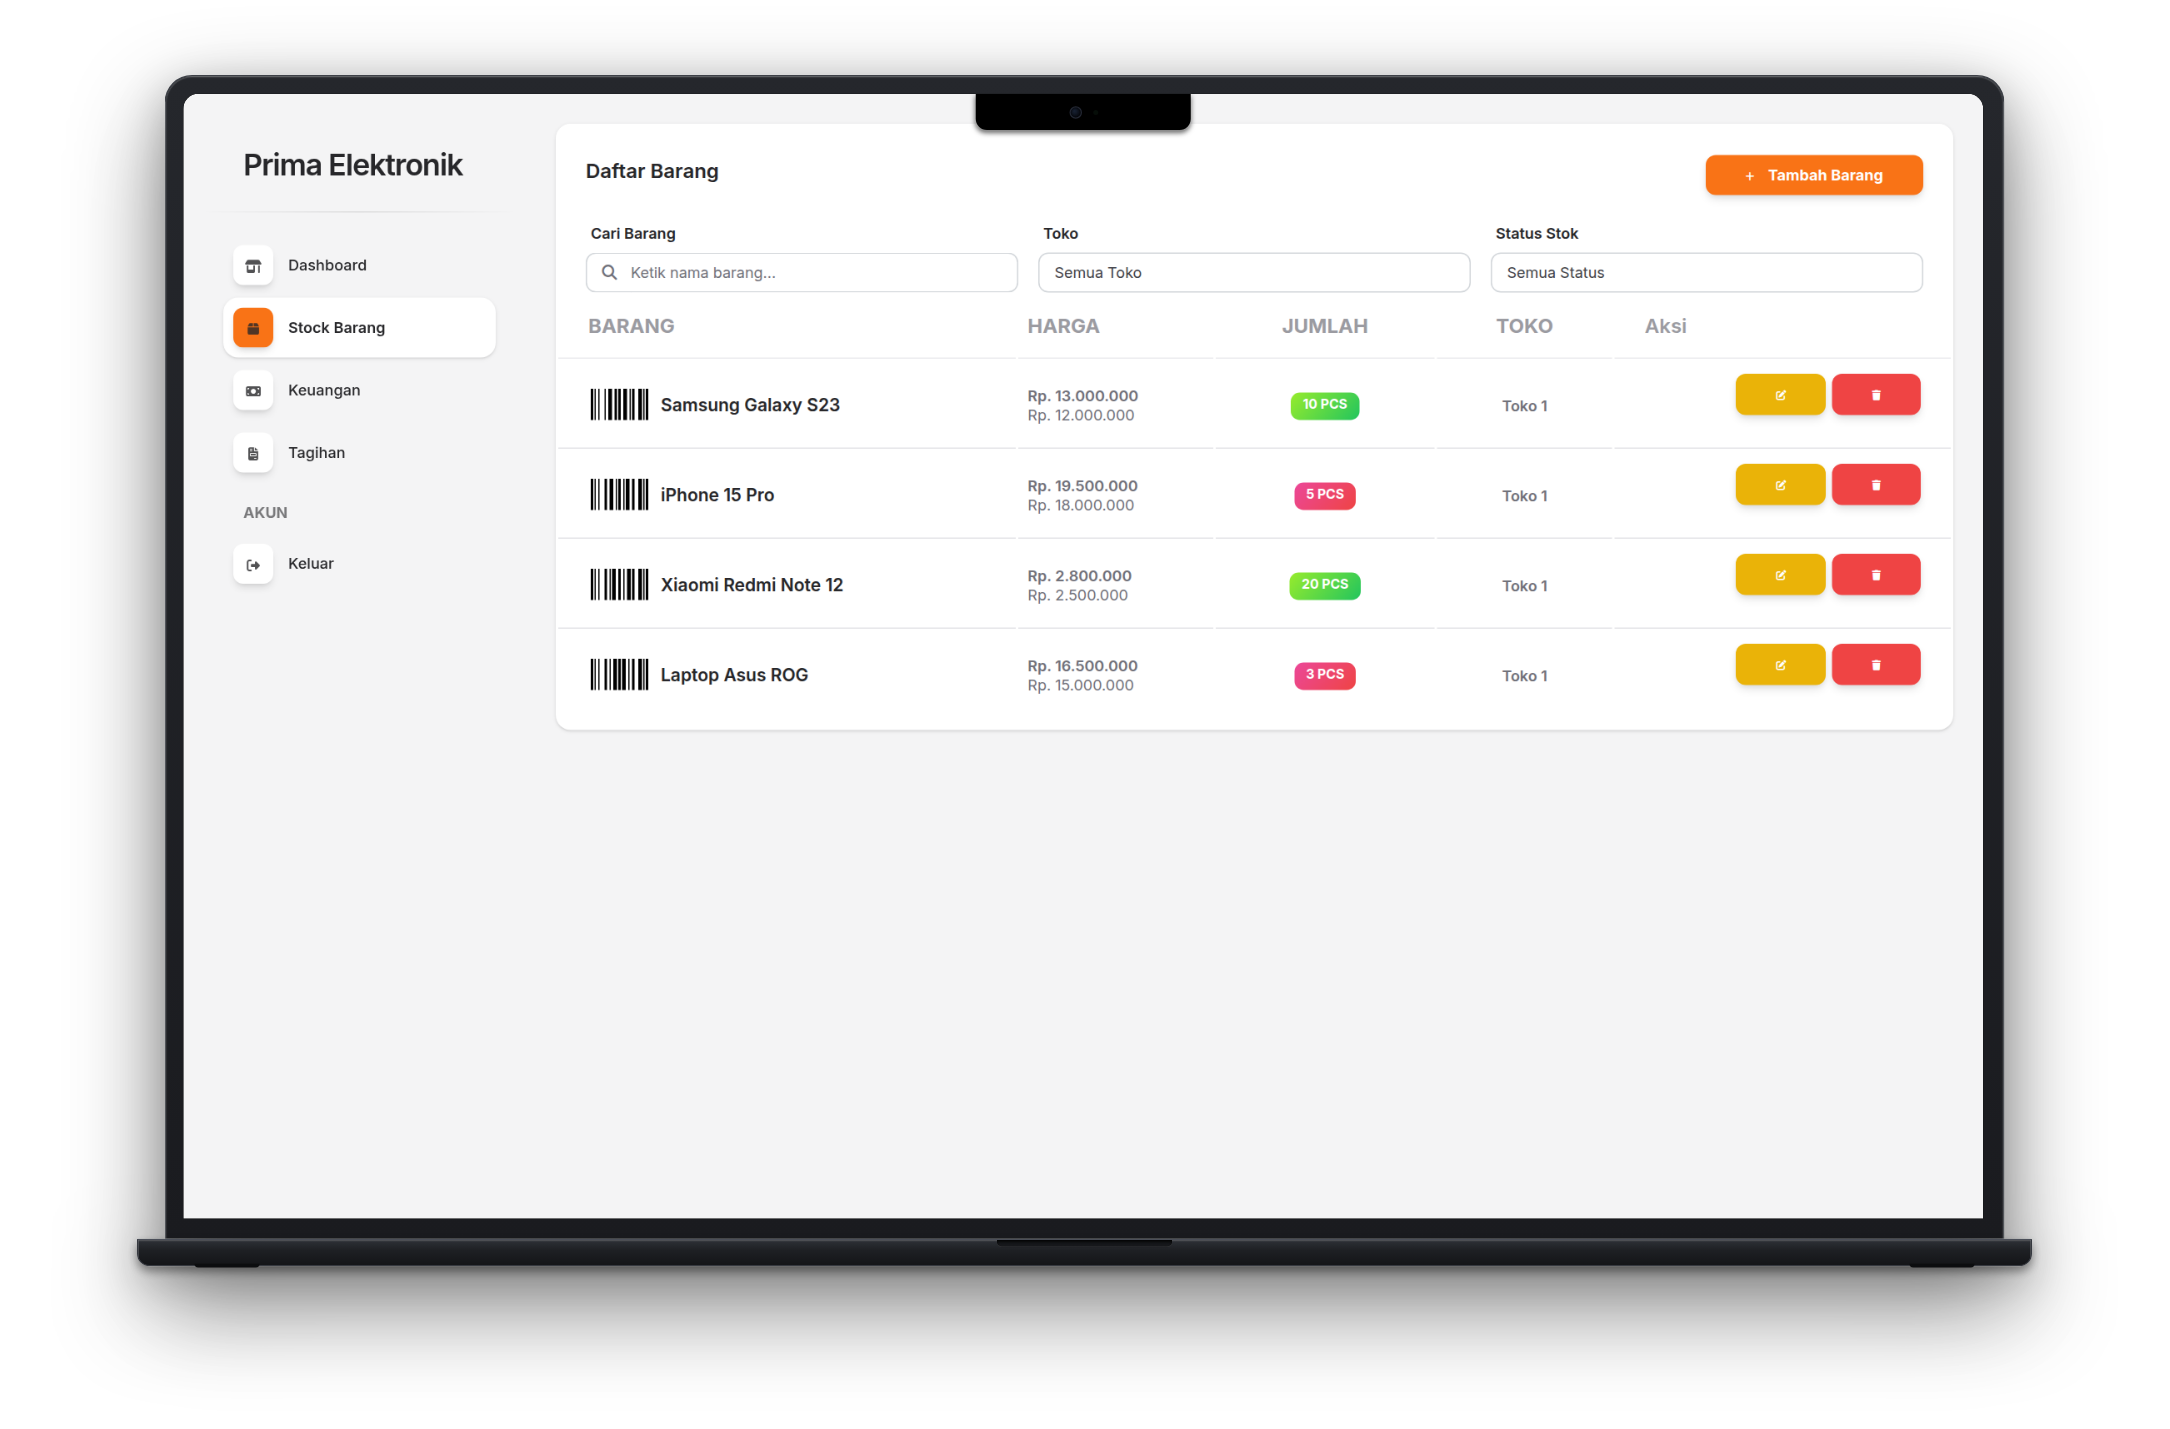
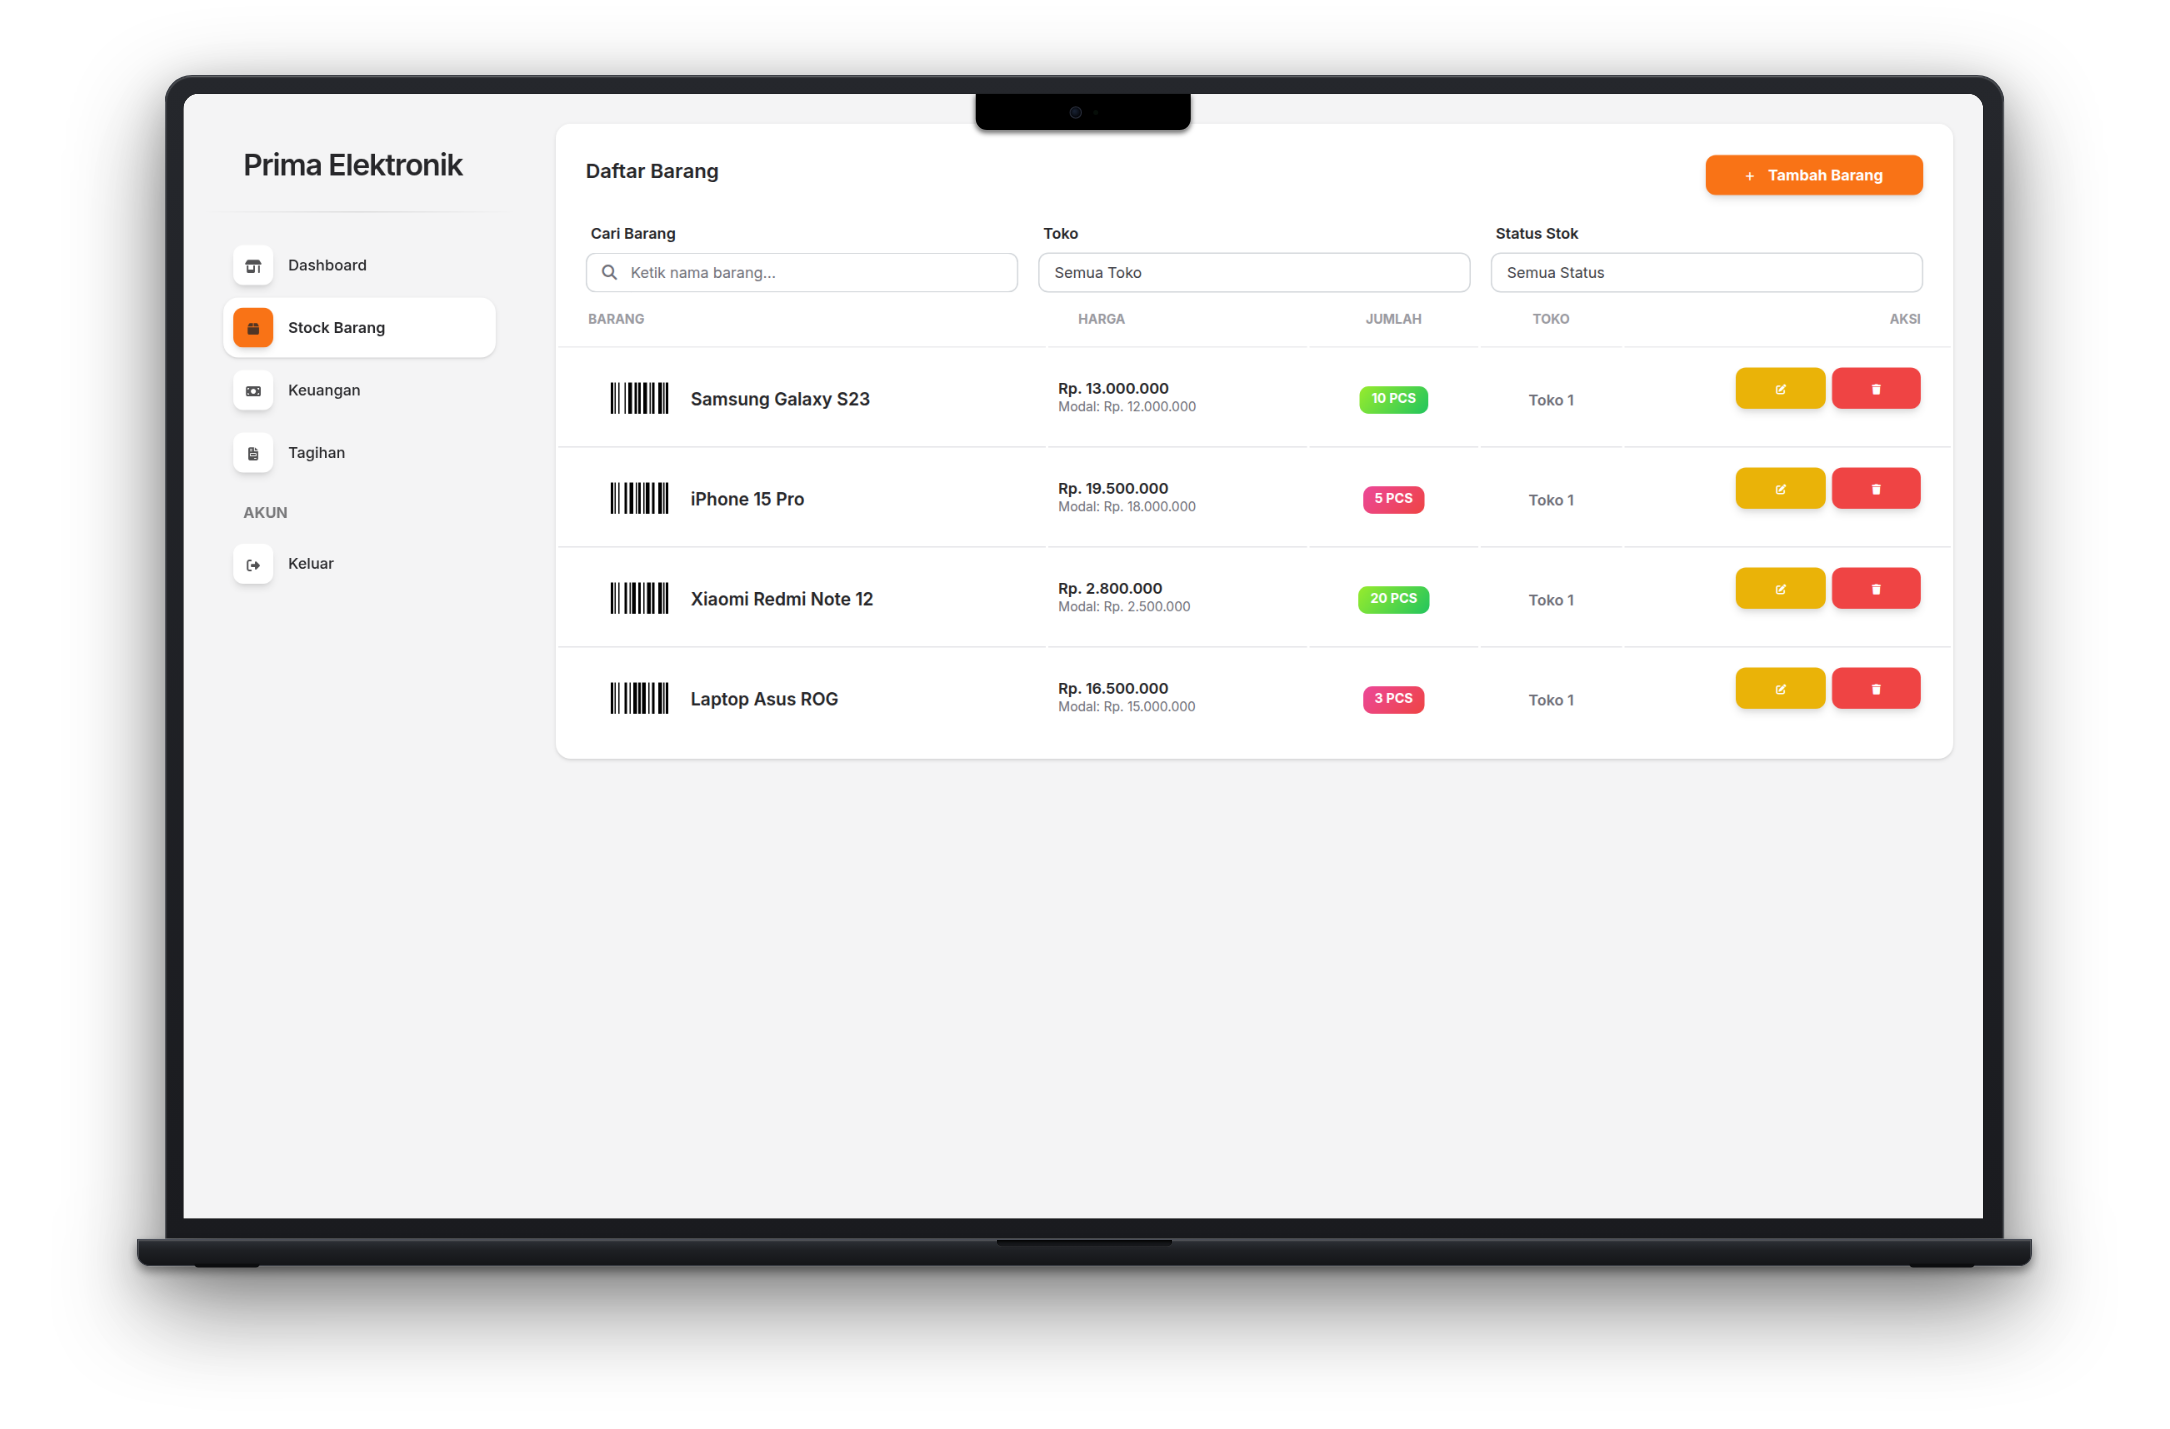
fix(ui): responsive stock table on mobile, seed bills, and authentic bill receipt captures

diff --git a/src/main/resources/templates/stock-barang.html b/src/main/resources/templates/stock-barang.html
@@ -143,18 +143,18 @@
                 <table class="table align-items-center mb-0" id="stockTable">
                   <thead>
                     <tr>
-                      <th class="text-uppercase text-secondary font-weight-bolder opacity-7">Barang</th>
-                      <th class="text-uppercase text-secondary font-weight-bolder opacity-7 ps-2">Harga</th>
-                      <th class="text-center text-uppercase text-secondary font-weight-bolder opacity-7">Jumlah</th>
-                      <th class="text-center text-uppercase text-secondary font-weight-bolder opacity-7">Toko</th>
-                      <th class="text-secondary opacity-7" th:if="${isLoggedIn}">Aksi</th>
+                      <th class="text-uppercase text-secondary text-xxs font-weight-bolder opacity-7 ps-4">Barang</th>
+                      <th class="text-uppercase text-secondary text-xxs font-weight-bolder opacity-7 text-end pe-4 text-md-start">Harga</th>
+                      <th class="d-none d-md-table-cell text-center text-uppercase text-secondary text-xxs font-weight-bolder opacity-7">Jumlah</th>
+                      <th class="d-none d-md-table-cell text-center text-uppercase text-secondary text-xxs font-weight-bolder opacity-7">Toko</th>
+                      <th class="d-none d-md-table-cell text-end pe-4 text-uppercase text-secondary text-xxs font-weight-bolder opacity-7" th:if="${isLoggedIn}">Aksi</th>
                     </tr>
                   </thead>
                   <tbody>
                     <tr th:each="row : ${stocks}">
                       <td>
-                        <div class="d-flex px-2 py-1">
-                          <div>
+                        <div class="d-flex ps-4 pe-2 py-2 align-items-center">
+                          <div class="d-none d-md-block me-2">
                             <svg th:id="'barcode' + ${row.id}"></svg>
                             <script th:inline="javascript">
                               /*<![CDATA[*/
@@ -165,27 +165,44 @@
                             </script>
                           </div>
                           <div class="d-flex flex-column justify-content-center">
-                            <h6 class="mb-0 text-sm" th:text="${row.name}">Name</h6>
+                            <h6 class="mb-0 text-sm font-weight-bold" th:text="${row.name}">Name</h6>
+                            <div class="d-flex align-items-center gap-2 mt-1 d-md-none">
+                              <span class="badge badge-sm py-1 px-2"
+                                th:classappend="${row.qty > 9} ? 'bg-gradient-success' : 'bg-gradient-danger'"
+                                th:text="${row.qty} + ' Pcs'">Qty</span>
+                              <span class="badge badge-sm bg-light text-secondary border font-weight-bold py-1 px-2"
+                                th:text="'Toko ' + ${row.store}">Store</span>
+                            </div>
                           </div>
                         </div>
                       </td>
-                      <td>
-                        <p class="text-xs font-weight-bold mb-0"
+                      <td class="align-middle text-end pe-4 text-md-start">
+                        <p class="text-xs font-weight-bold mb-0 text-dark"
                           th:text="'Rp. ' + ${#numbers.formatDecimal(row.priceFinal, 0, 'POINT', 0, 'COMMA')}">Price</p>
-                        <p class="text-xs text-secondary mb-0"
-                          th:text="'Rp. ' + ${#numbers.formatDecimal(row.priceInit, 0, 'POINT', 0, 'COMMA')}">Init Price
+                        <p class="text-xxs text-secondary mb-0"
+                          th:text="'Modal: Rp. ' + ${#numbers.formatDecimal(row.priceInit, 0, 'POINT', 0, 'COMMA')}">Init Price
                         </p>
+                        <div class="mt-1 d-md-none" th:if="${isLoggedIn}">
+                          <button class="btn btn-link text-warning px-1 py-0 mb-0" th:data-id="${row.id}" th:data-name="${row.name}"
+                            th:data-priceinit="${row.priceInit}" th:data-pricefinal="${row.priceFinal}"
+                            th:data-qty="${row.qty}" th:data-store="${row.store}" onclick="openEditModal(this)">
+                            <i class="fas fa-edit"></i>
+                          </button>
+                          <button class="btn btn-link text-danger px-1 py-0 mb-0" th:data-id="${row.id}" onclick="openDeleteModal(this)">
+                            <i class="fas fa-trash"></i>
+                          </button>
+                        </div>
                       </td>
-                      <td class="align-middle text-center text-sm">
+                      <td class="d-none d-md-table-cell align-middle text-center text-sm">
                         <span class="badge badge-sm"
                           th:classappend="${row.qty > 9} ? 'bg-gradient-success' : 'bg-gradient-danger'"
                           th:text="${row.qty} + ' Pcs'">Qty</span>
                       </td>
-                      <td class="align-middle text-center text-sm">
+                      <td class="d-none d-md-table-cell align-middle text-center text-sm">
                         <span class="text-secondary text-xs font-weight-bold"
                           th:text="'Toko ' + ${row.store}">Store</span>
                       </td>
-                      <td class="align-middle text-end pe-4" th:if="${isLoggedIn}">
+                      <td class="d-none d-md-table-cell align-middle text-end pe-4" th:if="${isLoggedIn}">
                         <button class="btn btn-warning btn-sm" th:data-id="${row.id}" th:data-name="${row.name}"
                           th:data-priceinit="${row.priceInit}" th:data-pricefinal="${row.priceFinal}"
                           th:data-qty="${row.qty}" th:data-store="${row.store}" onclick="openEditModal(this)">

diff --git a/src/main/java/com/primaelectronic/pos/controller/SeedController.java b/src/main/java/com/primaelectronic/pos/controller/SeedController.java
@@ -1,7 +1,9 @@
 package com.primaelectronic.pos.controller;
 
+import com.primaelectronic.pos.model.Bill;
 import com.primaelectronic.pos.model.Stock;
 import com.primaelectronic.pos.model.User;
+import com.primaelectronic.pos.repository.BillRepository;
 import com.primaelectronic.pos.repository.StockRepository;
 import com.primaelectronic.pos.repository.UserRepository;
 import com.primaelectronic.pos.service.SequenceGeneratorService;
@@ -10,6 +12,7 @@ import org.springframework.web.bind.annotation.GetMapping;
 import org.springframework.web.bind.annotation.RequestMapping;
 import org.springframework.web.bind.annotation.RestController;
 
+import java.time.LocalDate;
 import java.time.LocalDateTime;
 
 @RestController
@@ -21,6 +24,9 @@ public class SeedController {
 
     @Autowired
     private StockRepository stockRepository;
+
+    @Autowired
+    private BillRepository billRepository;
 
     @Autowired
     private SequenceGeneratorService sequenceGeneratorService;
@@ -72,6 +78,16 @@ public class SeedController {
             result.append("Stocks already exist. <br/>");
         }
 
+        // Seed Bills
+        if (billRepository.count() == 0) {
+            createBill("PT Surya Jaya Elektronik", "15.000.000", "Pengadaan Batch 4 Sparepart LED", "", 2, 15000000, LocalDate.now().plusDays(10), "hamam");
+            createBill("CV Prima Distribusi", "8.750.000", "Restock Kabel HDMI 4K & Charger", "", 1, 0, LocalDate.now().minusDays(2), "hamam");
+            createBill("Multi Media Perkasa", "5.200.000", "Pembelian Adaptor & Converter Type-C", "", 3, 2200000, LocalDate.now().plusDays(5), "hamam");
+            result.append("Dummy bills created. <br/>");
+        } else {
+            result.append("Bills already exist. <br/>");
+        }
+
         return result.toString();
     }
 
@@ -86,5 +102,20 @@ public class SeedController {
         stock.setCreatedAt(LocalDateTime.now());
         stock.setModifiedAt(LocalDateTime.now());
         stockRepository.save(stock);
+    }
+
+    private void createBill(String nama, String nominal, String ket, String pic, int status, int nominalMinus, LocalDate dueDate, String createdBy) {
+        Bill bill = new Bill();
+        bill.setId(sequenceGeneratorService.generateSequence(Bill.SEQUENCE_NAME));
+        bill.setNama(nama);
+        bill.setNominal(nominal);
+        bill.setKet(ket);
+        bill.setPic(pic);
+        bill.setStatus(status);
+        bill.setNominalMinus(nominalMinus);
+        bill.setDueDate(dueDate);
+        bill.setCreatedBy(createdBy);
+        bill.setCreatedAt(LocalDate.now());
+        billRepository.save(bill);
     }
 }

diff --git a/README.md b/README.md
@@ -36,7 +36,7 @@ Simpos is a point-of-sale (POS) and inventory management web application enginee
 - **Vendor Billing & Invoices (`/bill`)**: Accounts payable ledger tracking vendor invoices, due dates (`dueDate`), person in charge (PIC), payment statuses (`Lunas` / `Belum Lunas`), balance remainders (`nominalMinus`), and search filters.
 - **Executive Analytics Dashboard (`/dashboard`)**: Daily gross revenue summaries, transaction volume count, store switcher, and active inventory status cards.
 - **Atomic Invoicing & Sequence Generator**: Auto-incrementing numerical identifier sequence collection (`DatabaseSequence`) utilizing MongoDB `findAndModify` operations for consistent transactional concurrency across transactions, stock, and bills.
-- **Bootstrap Database Seeding (`/seed`)**: Development endpoint to initialize default admin (`hamam`), cashier (`kasir`), and electronic product stock items.
+- **Bootstrap Database Seeding (`/seed`)**: Development endpoint to initialize default admin (`hamam`), cashier (`kasir`), electronic product stock catalog, and vendor billing records.
 
 ---
 
@@ -175,7 +175,7 @@ Execute the seeder via terminal (`curl`) or directly in your browser:
 curl -X GET http://localhost:8081/seed
 
 # Expected Output:
-# Admin user created (hamam/123). <br/>Kasir user created (kasir/123). <br/>Dummy stocks created. <br/>
+# Admin user created (hamam/123). <br/>Kasir user created (kasir/123). <br/>Dummy stocks created. <br/>Dummy bills created. <br/>
 ```
 
 Or open in your web browser: `http://localhost:8081/seed`.
